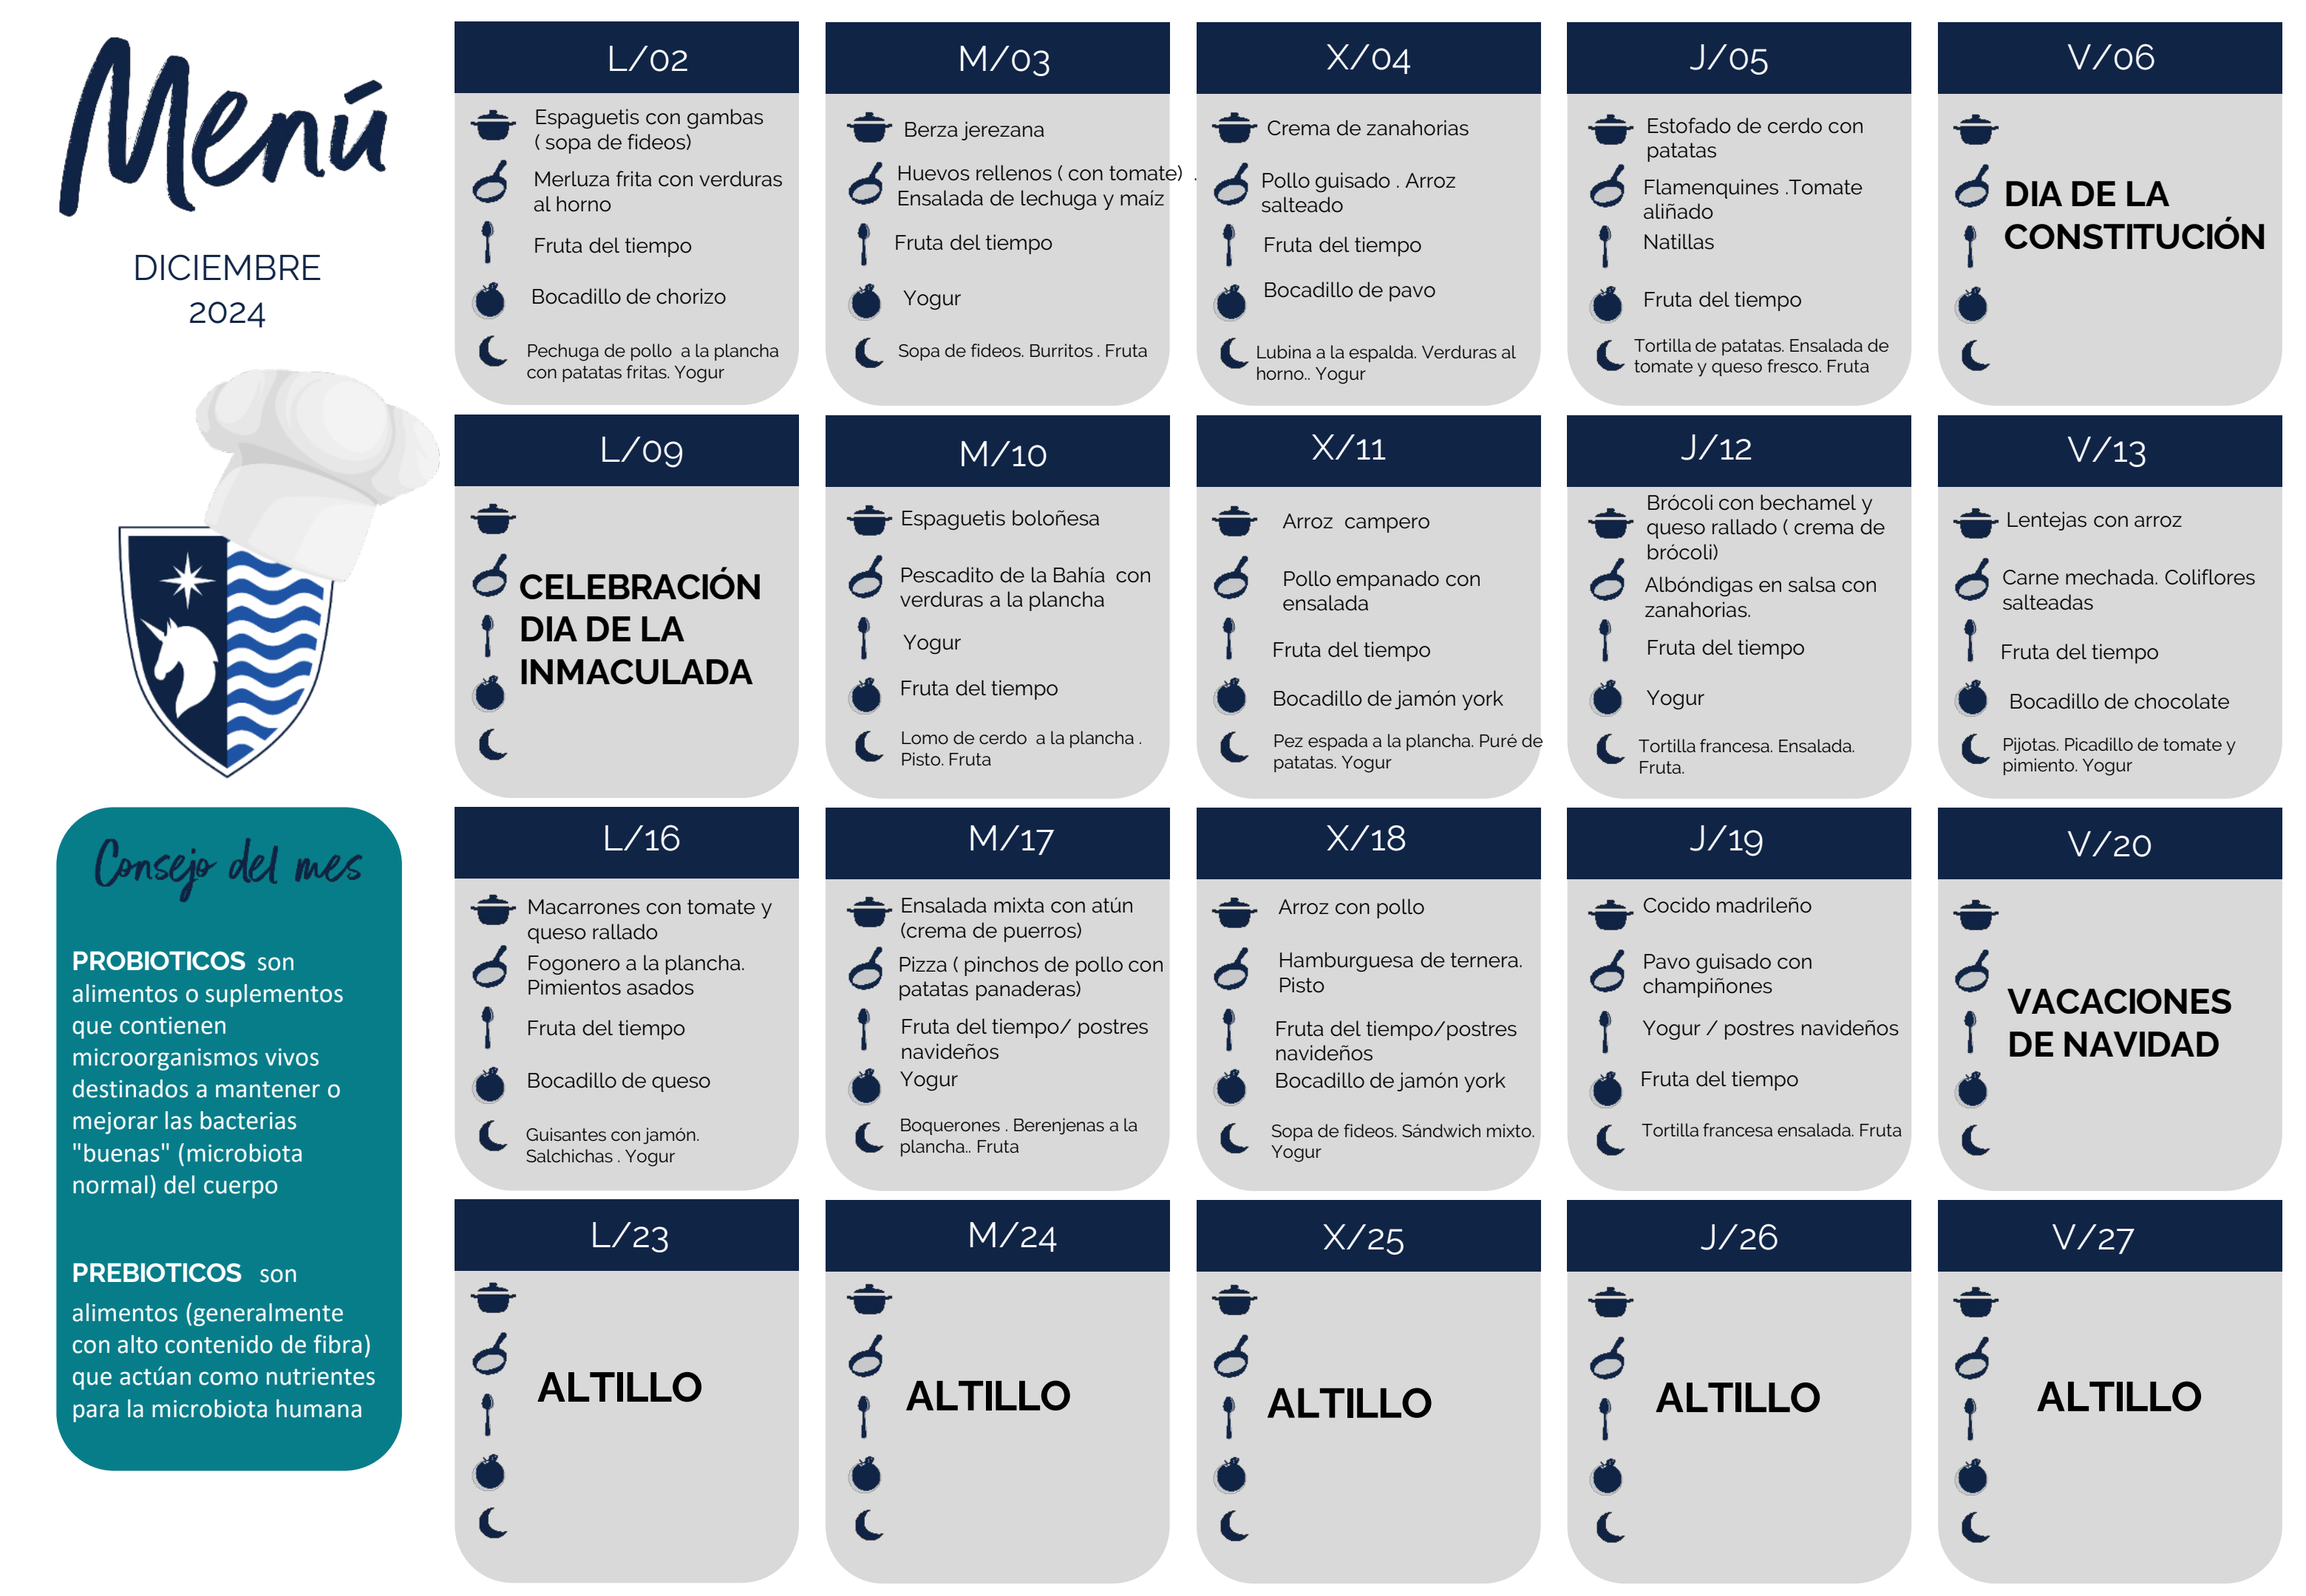
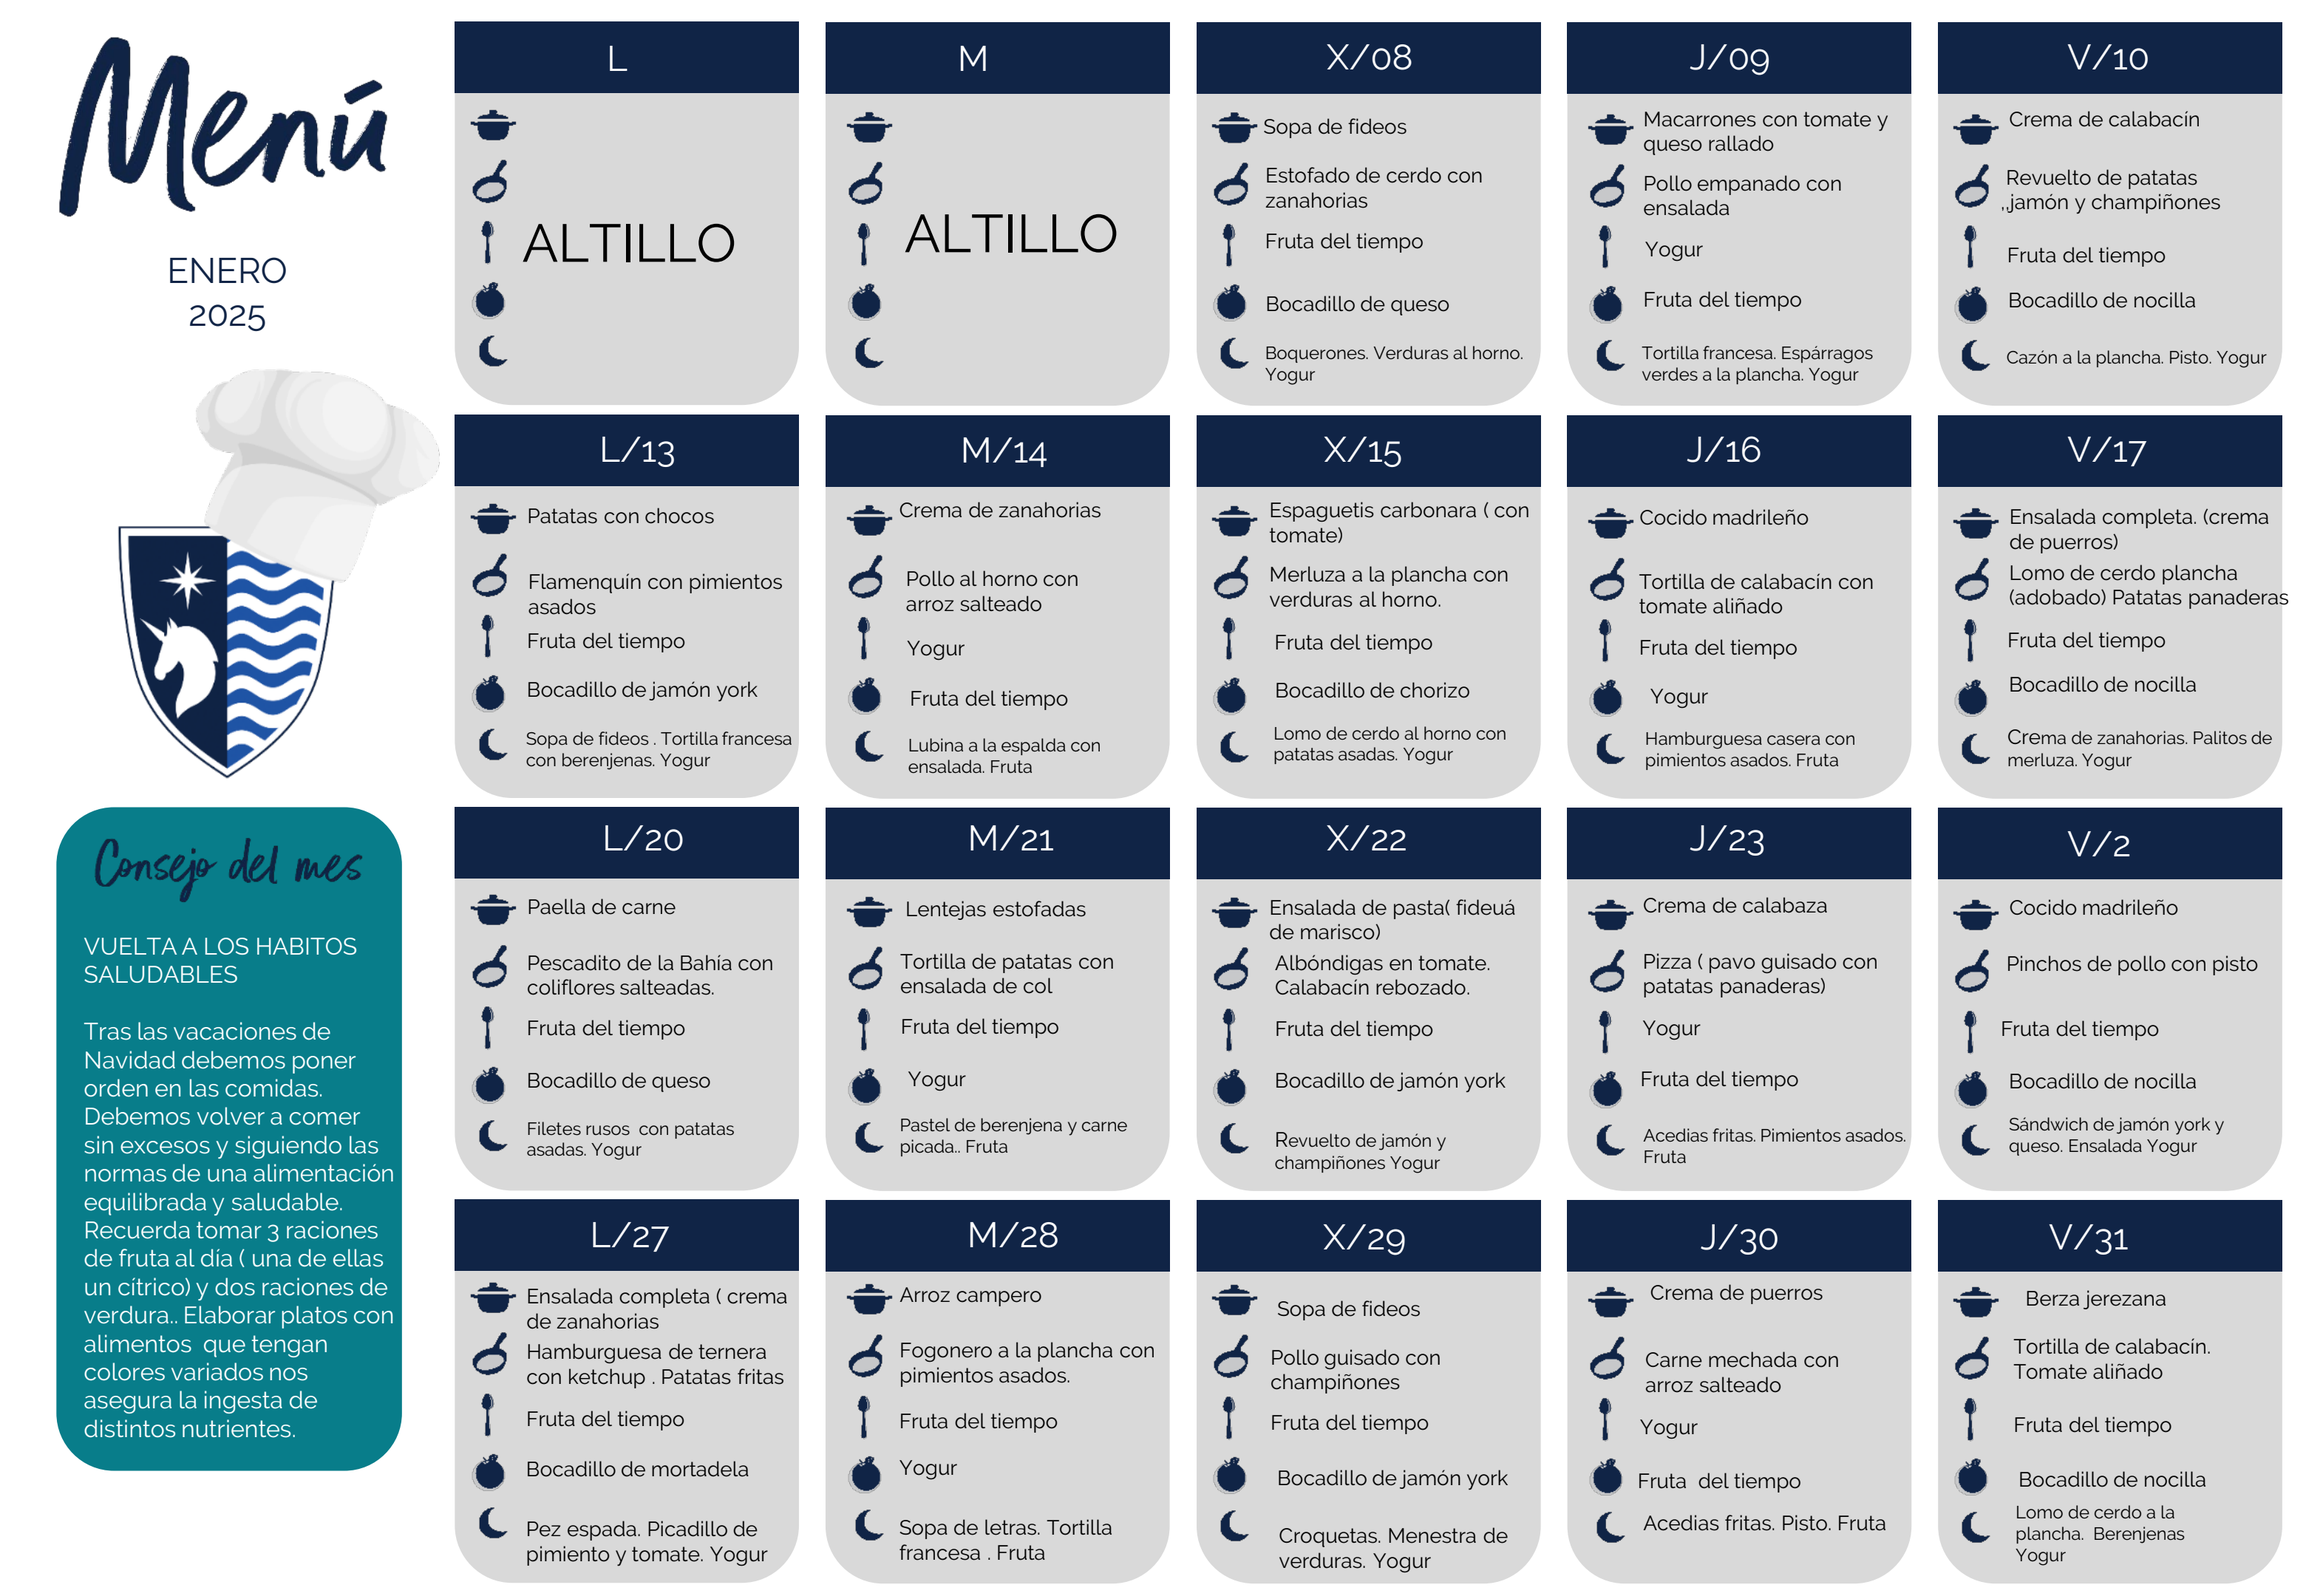
menu actualizado, removed images

diff --git a/pages/menu.html b/pages/menu.html
@@ -31,68 +31,97 @@
 </center>
 <script>
   const menu = {
-  "Lunes 2 Dic": [
-    "Espaguetis con gambas (sopa de fideos)",
-    "Merluza frita con verduras al horno",
+  "Miércoles 8 Ene": [
+    "Sopa de fideos",
+    "Estofado de cerdo con zanahorias",
     "Fruta del tiempo"
   ],
-  "Martes 3 Dic": [
-    "Berza jerezana",
-    "Huevos rellenos (con tomate) Ensalada de lechuga y maíz",
-    "Fruta del tiempo"
-  ],
-  "Miércoles 4 Dic": [
-    "Crema de zanahorias",
-    "Pollo guisado. Arroz salteado",
-    "Fruta del tiempo"
-  ],
-  "Jueves 5 Dic": [
-    "Estofado de cerdo con patatas",
-    "Flamenquines. Tomate aliñado",
-    "Natillas"
-  ],
-  "Martes 10 Dic": [
-    "Espaguetis boloñesa",
-    "Pescadito de la Bahía con verduras a la plancha",
+  "Jueves 9 Ene": [
+    "Macarrones con tomate y queso rallado",
+    "Pollo empanado con ensalada",
     "Yogur"
   ],
-  "Miércoles 11 Dic": [
-    "Arroz campero",
-    "Pollo empanado con ensalada",
+  "Viernes 10 Ene": [
+    "Crema de calabacín",
+    "Revuelto de patatas, jamón y champiñones",
     "Fruta del tiempo"
   ],
-  "Jueves 12 Dic": [
-    "Brócoli con bechamel y queso rallado (crema de brócoli)",
-    "Albóndigas en salsa con zanahorias",
+  "Lunes 13 Ene": [
+    "Patatas con chocos",
+    "Flamenquín con pimientos asados",
     "Fruta del tiempo"
   ],
-  "Viernes 13 Dic": [
-    "Lentejas con arroz",
-    "Carne mechada. Coliflores salteadas",
+  "Martes 14 Ene": [
+    "Crema de zanahorias",
+    "Pollo al horno con arroz salteado",
+    "Yogur"
+  ],
+  "Miércoles 15 Ene": [
+    "Espaguetis carbonara (con tomate)",
+    "Merluza a la plancha con verduras al horno",
     "Fruta del tiempo"
   ],
-  "Lunes 16 Dic": [
-    "Macarrones con tomate y queso rallado",
-    "Fogonero a la plancha. Pimientos asados",
-    "Fruta del tiempo"
-  ],
-  "Martes 17 Dic": [
-    "Ensalada mixta con atún (crema de puerros)",
-    "Pizza (pinchos de pollo con patatas panaderas)",
-    "Fruta del tiempo / postres navideños"
-  ],
-  "Miércoles 18 Dic": [
-    "Arroz con pollo",
-    "Hamburguesa de ternera. Pisto",
-    "Fruta del tiempo / postres navideños"
-  ],
-  "Jueves 19 Dic": [
+  "Jueves 16 Ene": [
     "Cocido madrileño",
-    "Pavo guisado con champiñones",
-    "Yogur / postres navideños"
+    "Tortilla de calabacín con tomate aliñado",
+    "Fruta del tiempo"
+  ],
+  "Viernes 17 Ene": [
+    "Ensalada completa (crema de puerros)",
+    "Lomo de cerdo plancha (adobado) Patatas panaderas",
+    "Fruta del tiempo"
+  ],
+  "Lunes 20 Ene": [
+    "Paella de carne",
+    "Pescadito de la Bahía con coliflores salteadas",
+    "Fruta del tiempo"
+  ],
+  "Martes 21 Ene": [
+    "Lentejas estofadas",
+    "Tortilla de patatas con ensalada de col",
+    "Fruta del tiempo"
+  ],
+  "Miércoles 22 Ene": [
+    "Ensalada de pasta (fideuá de marisco)",
+    "Albóndigas en tomate. Calabacín rebozado",
+    "Fruta del tiempo"
+  ],
+  "Jueves 23 Ene": [
+    "Crema de calabaza",
+    "Pizza (pavo guisado con patatas panaderas)",
+    "Yogur"
+  ],
+  "Viernes 24 Ene": [
+    "Cocido madrileño",
+    "Pinchos de pollo con pisto",
+    "Fruta del tiempo"
+  ],
+  "Lunes 27 Ene": [
+    "Ensalada completa (crema de zanahorias)",
+    "Hamburguesa de ternera con ketchup. Patatas fritas",
+    "Fruta del tiempo"
+  ],
+  "Martes 28 Ene": [
+    "Arroz campero",
+    "Fogonero a la plancha con pimientos asados",
+    "Fruta del tiempo"
+  ],
+  "Miércoles 29 Ene": [
+    "Sopa de fideos",
+    "Pollo guisado con champiñones",
+    "Fruta del tiempo"
+  ],
+  "Jueves 30 Ene": [
+    "Crema de puerros",
+    "Carne mechada con arroz salteado",
+    "Yogur"
+  ],
+  "Viernes 31 Ene": [
+    "Berza jerezana",
+    "Tortilla de calabacín. Tomate aliñado",
+    "Fruta del tiempo"
   ]
 };
-
   function getFormattedDate() {
     const daysOfWeek = ["Domingo", "Lunes", "Martes", "Miércoles", "Jueves", "Viernes", "Sábado"];
     const months = ["Ene", "Feb", "Mar", "Abr", "May", "Jun", "Jul", "Ago", "Sep", "Oct", "Nov", "Dic"];
